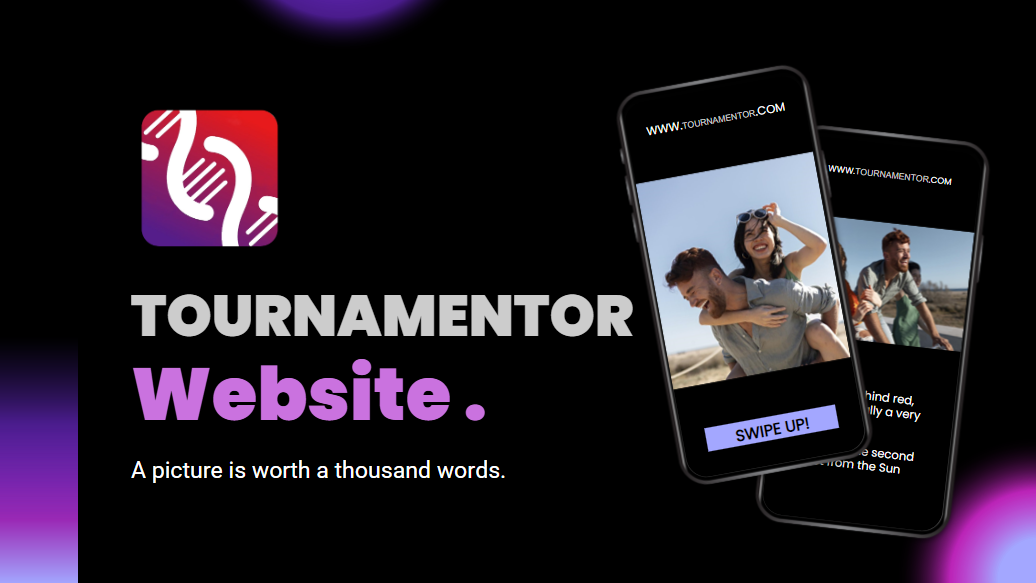
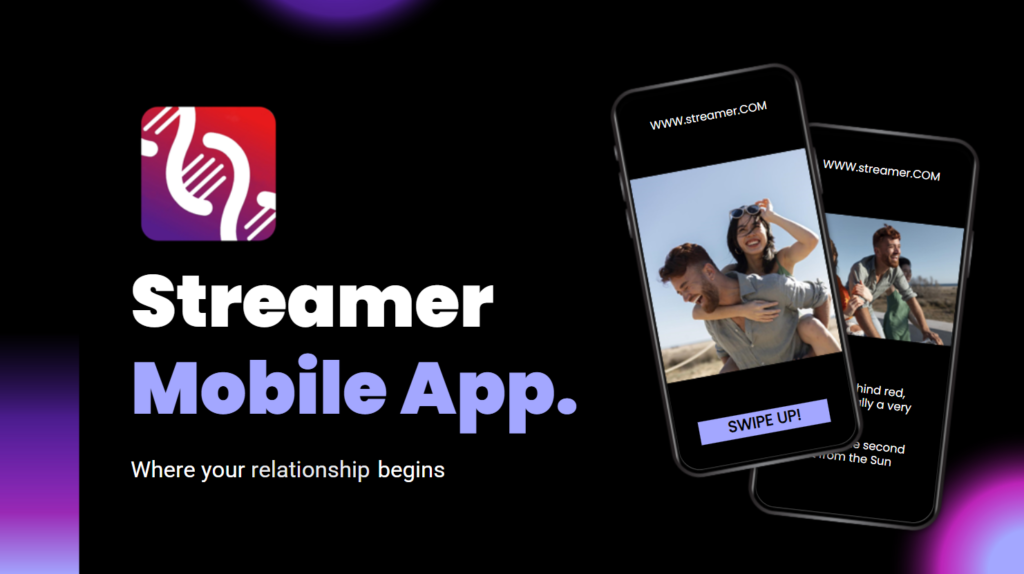
name change

diff --git a/site/src/page/home.jsx b/site/src/page/home.jsx
@@ -15,7 +15,7 @@ export const Navbar = () => {
             height={50}
           />
           <div className="align-center mt-2 ml-4 text-[30px] font-black">
-            TOURNAMENTOR
+            STREAMER
           </div>
         </div>
         <ul className="flex flex-row mb-4 items-end justify-between align-center">
@@ -59,7 +59,7 @@ export const Navbar = () => {
             width={100}
             height={100}
           />
-          <h2 className="font-extrabold text-[25px]">TOURNAMENTOR</h2>
+          <h2 className="font-extrabold text-[25px]">STREAMER</h2>
           <p className="slogan m-2 text-[#f0f8ff] text-[20px] font-serif">
             Where your relationship begins
           </p>

diff --git a/site/src/page/leftnav.jsx b/site/src/page/leftnav.jsx
@@ -47,7 +47,7 @@ const Leftnav = () => {
       <div className="flex z-50 bg-black">
         <div className="w-[268px] h-screen border-r border-white z-50 bg-black p-4 fixed">
           <div className="flex items-center justify-center mb-3 text-white text-2xl font-mono">
-            TOURNAMENTOR
+            STREAMER
           </div>
 
           <Link

diff --git a/site/src/page/message.jsx b/site/src/page/message.jsx
@@ -66,7 +66,6 @@ function Message() {
           ],
         }));
 
-        // const formattedUsers = [{ id: "adlkdf", name: "sldkjf" }];
 
         setUsers(formattedUsers);
       } catch (error) {
@@ -79,6 +78,8 @@ function Message() {
 
     fetchUsers();
   }, []);
+
+  
 
   useEffect(() => {
     const fetchUsers = async () => {

diff --git a/site/src/page/signup.jsx b/site/src/page/signup.jsx
@@ -139,7 +139,7 @@ const SignupPage = () => {
             height={100}
           />
           <div className="text-white font-serif mt-6 text-5xl font-bold">
-            <Link to="/">TOURNAMENTOR</Link>
+            <Link to="/">STREAMER</Link>
           </div>
         </div>
 

diff --git a/site/src/page/login.jsx b/site/src/page/login.jsx
@@ -96,7 +96,7 @@ const Login = () => {
             height={100}
           />
           <div className="text-white font-serif mt-6 text-5xl font-bold">
-            <Link to="/">TOURNAMENTOR</Link>
+            <Link to="/">STREAMER</Link>
           </div>
         </div>
 
